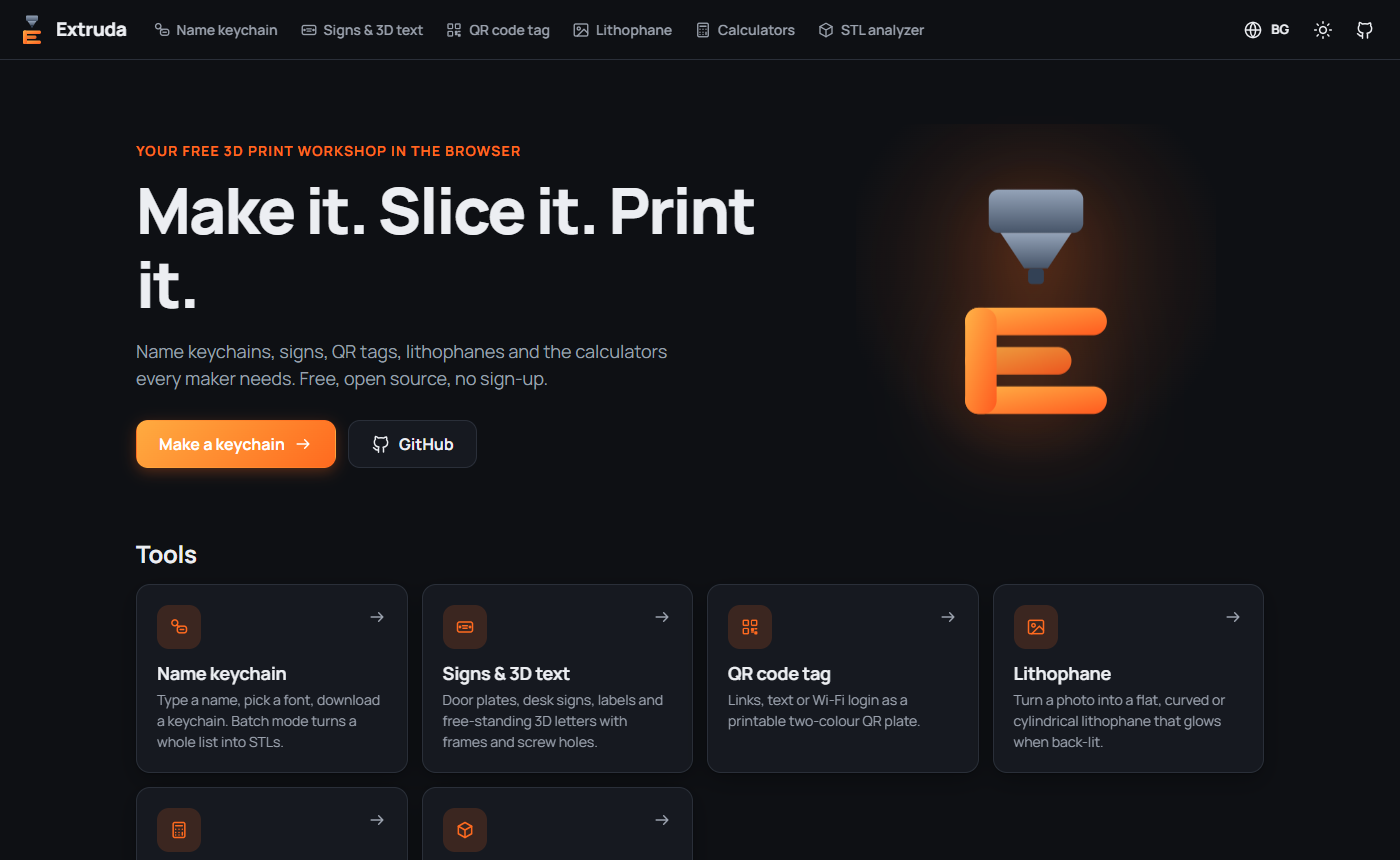
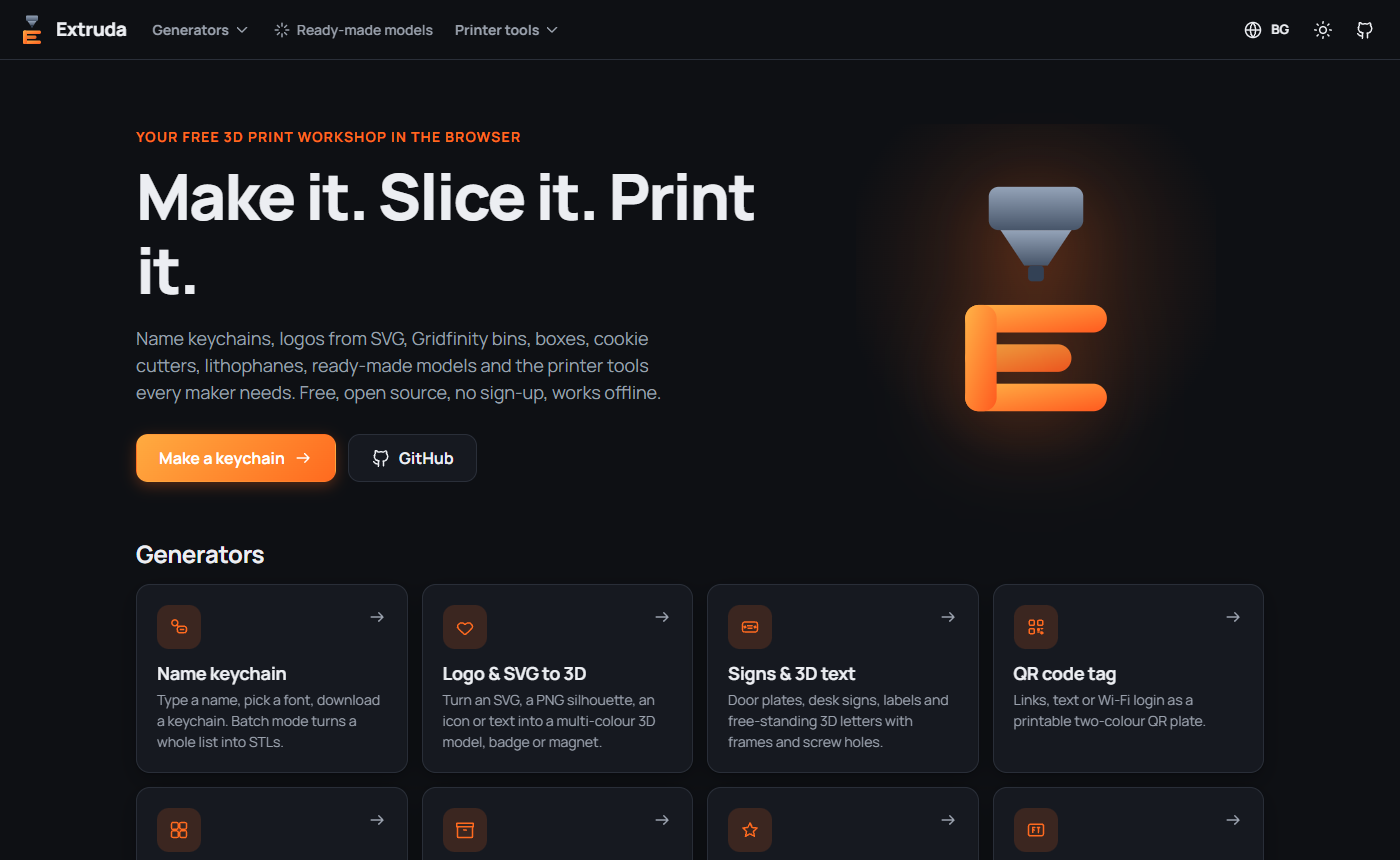
Fix colour-change layer choice, refresh README, screenshots and notices
The change now goes before the first layer above the chosen height: a layer's Z is its top,
so the last base layer keeps the old colour.

diff --git a/src/i18n/bg.ts b/src/i18n/bg.ts
@@ -14,14 +14,14 @@ export const bg: Dict = {
 
   'home.title': 'Създай. Нарежи. Принтирай.',
   'home.subtitle':
-    'Ключодържатели с имена, табели, QR етикети, литофани и калкулаторите, от които всеки мейкър има нужда. Безплатно, с отворен код, без регистрация.',
+    'Ключодържатели с имена, лога от SVG, Gridfinity кутийки, кутии, калъпи за сладки, литофани, готови модели и инструментите за принтера, от които всеки мейкър има нужда. Безплатно, с отворен код, без регистрация, работи и офлайн.',
   'home.cta': 'Направи ключодържател',
   'home.f1.title': '100% в браузъра',
   'home.f1.text': 'Геометрията се смята локално с WebAssembly. Нищо не се качва.',
   'home.f2.title': 'STL и многоцветен 3MF',
   'home.f2.text': 'Текстът и основата са отделни тела – готови за AMS, MMU или смяна на филамент.',
   'home.f3.title': 'Кирилица и латиница',
-  'home.f3.text': 'Девет вградени шрифта, които пишат Иван толкова добре, колкото и Ivan.',
+  'home.f3.text': 'Девет вградени шрифта, които пишат Иван толкова добре, колкото и Ivan. Интерфейс на български и английски.',
   'home.tools': 'Инструменти',
 
   'tool.keychain.title': 'Ключодържател с име',
@@ -355,7 +355,7 @@ export const bg: Dict = {
   'g.time': "Време",
   'g.filament': "Филамент",
   'g.heights': "Смяна на височини (мм)",
-  'g.heightsHint': "Раздели със запетаи. Смяната става преди първия слой на или над тази височина.",
+  'g.heightsHint': "Раздели със запетаи. Смяната става преди първия слой над тази височина.",
   'g.command': "Команда",
   'g.cmd.M600': "M600: смяна на филамент (Prusa, Marlin)",
   'g.cmd.PAUSE': "PAUSE: макрос на Klipper",

diff --git a/src/i18n/en.ts b/src/i18n/en.ts
@@ -12,14 +12,14 @@ export const en = {
 
   'home.title': 'Make it. Slice it. Print it.',
   'home.subtitle':
-    'Name keychains, signs, QR tags, lithophanes and the calculators every maker needs. Free, open source, no sign-up.',
+    'Name keychains, logos from SVG, Gridfinity bins, boxes, cookie cutters, lithophanes, ready-made models and the printer tools every maker needs. Free, open source, no sign-up, works offline.',
   'home.cta': 'Make a keychain',
   'home.f1.title': '100% in your browser',
   'home.f1.text': 'Geometry is built locally with WebAssembly. Nothing is uploaded.',
   'home.f2.title': 'STL & multi-colour 3MF',
   'home.f2.text': 'Separate bodies for text and base: ready for AMS, MMU or a filament swap.',
   'home.f3.title': 'Cyrillic & Latin fonts',
-  'home.f3.text': 'Nine bundled fonts that handle Иван as well as Ivan.',
+  'home.f3.text': 'Nine bundled fonts that write Иван as well as Ivan. Bulgarian and English interface.',
   'home.tools': 'Tools',
 
   'tool.keychain.title': 'Name keychain',
@@ -353,7 +353,7 @@ export const en = {
   'g.time': "Print time",
   'g.filament': "Filament",
   'g.heights': "Change at heights (mm)",
-  'g.heightsHint': "Separate with commas. Each change happens before the first layer at or above that height.",
+  'g.heightsHint': "Separate with commas. Each change happens before the first layer printed above that height.",
   'g.command': "Command",
   'g.cmd.M600': "M600: filament change (Prusa, Marlin)",
   'g.cmd.PAUSE': "PAUSE: Klipper macro",

diff --git a/src/core/gcode.ts b/src/core/gcode.ts
@@ -87,11 +87,14 @@ export function commandLines(cmd: ChangeCommand, message: string, z: number): st
   return out;
 }
 
-/** The first layer at or above each height (in mm), without duplicates. */
+/**
+ * The first layer printed above each height (in mm), without duplicates. A layer's Z is its top,
+ * so with a 3 mm base the layer at Z = 3.0 is still base and the change goes before Z = 3.2.
+ */
 export function layersAtHeights(info: GcodeInfo, heights: number[]): Layer[] {
   const out: Layer[] = [];
   for (const h of heights) {
-    const layer = info.layers.find((l) => l.z >= h - 1e-6);
+    const layer = info.layers.find((l) => l.z > h + 1e-6);
     if (layer && !out.includes(layer)) out.push(layer);
   }
   return out.sort((a, b) => a.line - b.line);

diff --git a/tests/v2.test.ts b/tests/v2.test.ts
@@ -241,6 +241,8 @@ describe('g-code', () => {
 
   it('inserts M600 right before the chosen layer and changes nothing else', () => {
     const info = parseGcode(prusa);
+    // Z is the top of a layer: changing "at 0.2 mm" must keep the 0.2 layer in the old colour.
+    expect(layersAtHeights(info, [0.2]).map((l) => l.z)).toEqual([0.4]);
     const layers = layersAtHeights(info, [0.35]);
     expect(layers.map((l) => l.z)).toEqual([0.4]);
     const out = insertChanges(prusa, layers, 'M600', 'Text colour');

diff --git a/src/style.css b/src/style.css
@@ -919,14 +919,6 @@ input[type='range'] {
 }
 
 /* ------------------------------------------------------------ responsive */
-@media (max-width: 1100px) and (min-width: 901px) {
-  .nav > a span:not(.icon) {
-    display: none;
-  }
-  .nav > a {
-    padding: 8px;
-  }
-}
 @media (max-width: 900px) {
   .tool {
     display: flex;

diff --git a/CONTRIBUTING.md b/CONTRIBUTING.md
@@ -18,7 +18,10 @@ npm run typecheck
   New generators belong here so they can be unit-tested.
 - `src/tools/` — one file per page. Register new tools in `src/tools/index.ts`.
 - `src/i18n/` — every user-facing string, in `en.ts` and `bg.ts`. Add both.
-- `tests/` — Vitest. Generated meshes should stay watertight; see `isWatertight` in `tests/geometry.test.ts`.
+- `src/models/` — the ready-made models gallery. **Adding a model is one entry** in `desk.ts`, `home.ts` or `gifts.ts`:
+  labels as `['English', 'Български']` pairs, a parameter list and a `build()` function. The gallery page and
+  `tests/gallery.test.ts` pick it up automatically.
+- `tests/` — Vitest. Generated meshes should stay watertight; see `isWatertight` in `tests/helpers.ts`.
 
 ## Rules of thumb
 

diff --git a/NOTICE.md b/NOTICE.md
@@ -23,6 +23,7 @@ generate are yours: print them, share them or sell them without restriction.
 | [opentype.js](https://github.com/opentypejs/opentype.js) | MIT | © 2020 Frederik De Bleser |
 | [QR Code Generator](https://github.com/kazuhikoarase/qrcode-generator) (`qrcode-generator`) | MIT | © 2009 Kazuhiko Arase |
 | [fflate](https://github.com/101arrowz/fflate) | MIT | © Arjun Barrett |
+| [Workbox](https://github.com/GoogleChrome/workbox) (offline service worker, via `vite-plugin-pwa`) | MIT | © Google LLC |
 
 The Apache-2.0 license of Manifold is compatible with GPLv3/AGPLv3.
 "QR Code" is a registered trademark of DENSO WAVE INCORPORATED.
